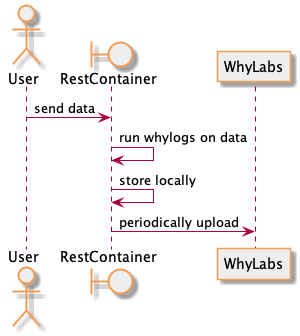
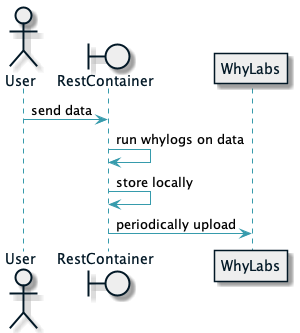
Fix typos, update copy and image

Changed region(s): [[0.0, 0.0, 0.99, 1.0]]

diff --git a/docs/integrations-rest-container.md b/docs/integrations-rest-container.md
@@ -3,51 +3,55 @@ id: integrations-rest-container
 title: Rest Container
 ---
 
-We offer multiple solutions to transporting dataset profiles into WhyLabs in
-order to accommodate the width breadth of environments and pipelines that
-exist today. One of these solutions is a container that starts a rest
-endpoint that takes in data in pandas format and runs whylogs on that data
-for you, periodically uploading the dataset profiles it creates to WhyLabs.
-It is intended to be run on customer premises.
+In order to accommodate the breadth of environments and pipelines that exist
+today, we offer multiple solutions for transporting dataset profiles into
+WhyLabs. One of these solutions is a container that starts a REST endpoint
+that takes in data in pandas format and runs whylogs on that data for you,
+periodically uploading the dataset profiles it creates to WhyLabs. It is
+intended to be run on customer premises.
 
-# How it works
+## How it works
 
 <div style={{textAlign: 'center'}}>
 
-![Rest Container Sequence Diagram](/img/rest-container-sequence.png)
+![REST Container Sequence Diagram](/img/rest-container-sequence.png)
 
 </div>
 
 The container is a Java REST service managed by supervisord that accepts data
 in a JSON wrapper and runs whylogs-java on it for you. The container is
-configured mostly via environment variables and then run through Docker. The
+configured mostly via environment variables and then run in Docker. The
 variables you can use are as follows.
 
-```bash
-# Defaults to HOURS, supports MINUTES, HOURS, DAYS
+```shell
+## Defaults to HOURS, supports MINUTES, HOURS, DAYS
 WHYLOGS_PERIOD=HOURS
 
-# Optionally define options for the java server inside the container.
+## Optionally define options for the java server inside the container.
 JAVA_OPTS=-XX:+UseZGC -XX:+UnlockExperimentalVMOptions -XX:-ZUncommit -Xmx4G
 
-# Optional alternate api endpoint for WhyLabs
+## Optional alternate api endpoint for WhyLabs
 WHYLABS_API_ENDPOINT=http://localhost:8080
 
-# Required API Key that you'll get from us.
+## Required API Key that you'll get from us.
 WHYLABS_API_KEY=xxxxxx
 
-# Required key that must be present for each request, set by you.
-# A precaution to make sure no one else can upload through your container.
-# The key is expected as value for the header key X-API-Key.
+## Required key that must be present for each request, set by you.
+## A precaution to make sure no one else can upload through your container.
+## The key is expected as value for the header key X-API-Key.
 CONTAINER_API_KEY=secret-key
 ```
 
 And you'll start it with.
 
-```bash
-# Assuming you're setting the above env variables with a local.env file.
+```shell
+## Assuming you're setting the above env variables with a local.env file.
 docker run -it --rm -p 127.0.0.1:8080:8080 --env-file local.env --name whycontainer whycontainer
 ```
+
+The `--rm` option isn't required, it just ensures the container is discarded
+when you're done. If you omit it then the container's on disk cache will
+persist across container restarts.
 
 You can view the API documentation (generated by swagger) at
 `https://your-endpoint/swagger-ui`. Use whatever language and network library
@@ -71,7 +75,8 @@ you prefer to send your data in the following shape.
 }
 ```
 
-If you're working in python with pandas then you can get the right format directly out of the pandas DataFrame.
+If you're working in python with pandas then you can get the right format for
+the `data` field directly out of the pandas DataFrame.
 
 ```python
 import pandas as pd
@@ -84,50 +89,50 @@ df = pd.DataFrame(cars, columns = ['Brand', 'Price'])
 data = df.to_json(orient="split")
 ```
 
-# Running
+## Running
 
 Contact us to get permissions to our Docker ECR. There are many ways to run Docker containers in general so the details will depend a lot on your individual setup and requirements. We're happy to make suggestions in our slack channel if you're looking for ideas.
 
-# Debugging and Troubleshooting
+## Debugging and Troubleshooting
 
-## Controlling the live REST service
+### Controlling the live REST service
 
 The container runs supervisord as its main command so it won't ever exit on its
-own. You can manipulate the rest server from within the container without
+own. You can manipulate the REST server from within the container without
 shutting down the container by using supervisord as follows.
 
-```
-# Connect to the running container, assuming you used `--name whycontainer` to run it.
+```shell
+## Connect to the running container, assuming you used `--name whycontainer` to run it.
 docker exec -it whycontainer sh
 
-# Restart the server
+## Restart the server
 ./scripts/restart-server.sh
 
-# The script is a covenience around supervisorctl. You can manually run
+## The script is a convenience around supervisorctl. You can manually run
 supervisorctl -c /opt/whylogs/supervisord.conf restart app
 supervisorctl -c /opt/whylogs/supervisord.conf start app
 supervisorctl -c /opt/whylogs/supervisord.conf stop app
 ```
 
-The rest server does make use of temporary files on its file system so restarting
-the rest server without terminating the container has the advantage of not
+The REST server does make use of temporary files on its file system so restarting
+the REST server without terminating the container has the advantage of not
 wiping out the ephemeral storage if it would have resulted in the container
 getting destroyed.
 
-## Inspecting the persistent storage
+### Inspecting the persistent storage
 
 The persistence is accomplished through a map abstraction that eventually calls
 sqlite. You can directly interface with sqlite in the container to verify its
 contents.
 
-```
-# Connect to the running container, assuming you used `--name whycontainer` to run it.
+```shell
+## Connect to the running container, assuming you used `--name whycontainer` to run it.
 docker exec -it whycontainer sh
 
-# Dump the content of the sqlite databse
+## Dump the content of the sqlite database
 ./scripts/query-profiles.sh
 
-# The script just calls sqlite with the locaiton of the db and a query
+## The script just calls sqlite with the location of the db and a query
 sqlite3 /tmp/profile-entries-map.sqlite 'select * from items;'
 ```
 
@@ -136,14 +141,14 @@ serialized dataset profiles. The dataset profiles are base64 encoded strings
 based on the output of the protobuf serialization. Everything else is human
 readable.
 
-## Monitoring traffic
+### Monitoring traffic
 
 Sometimes it's useful to monitor network traffic if you're having issues
-actually connecting to songbird or some request is failing for a mysterious
+actually connecting to WhyLabs or some request is failing for a mysterious
 reason. You can use `ngrep` to show the headers, url, etc.
 
-```
-# Connect to the container
+```shell
+## Connect to the container
 docker exec -it whycontainer sh
 
 ngrep -q -W byline
